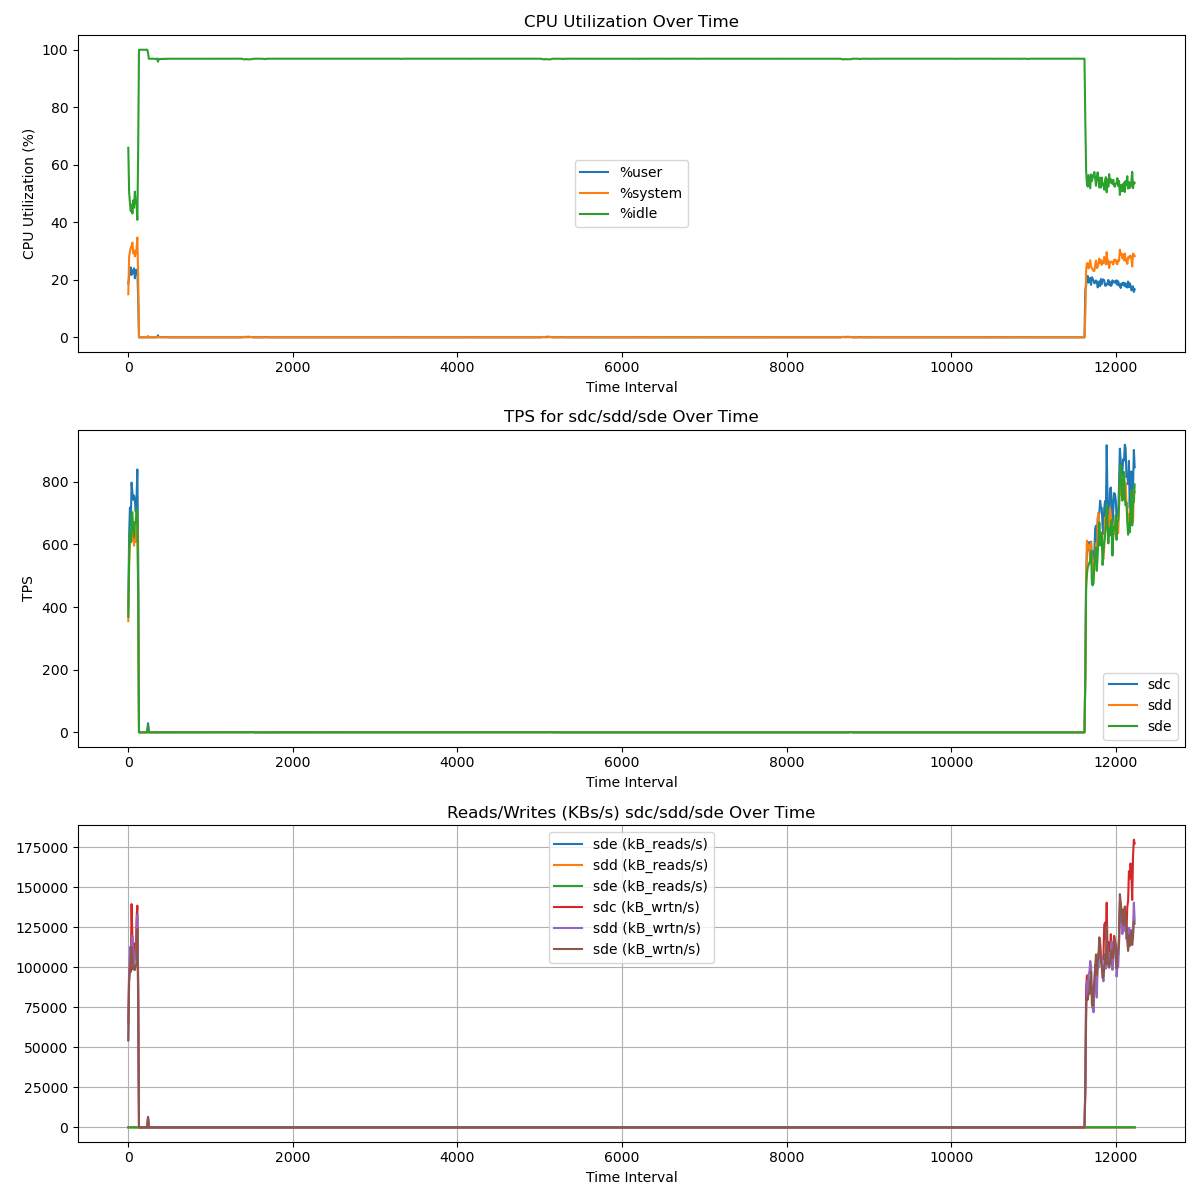
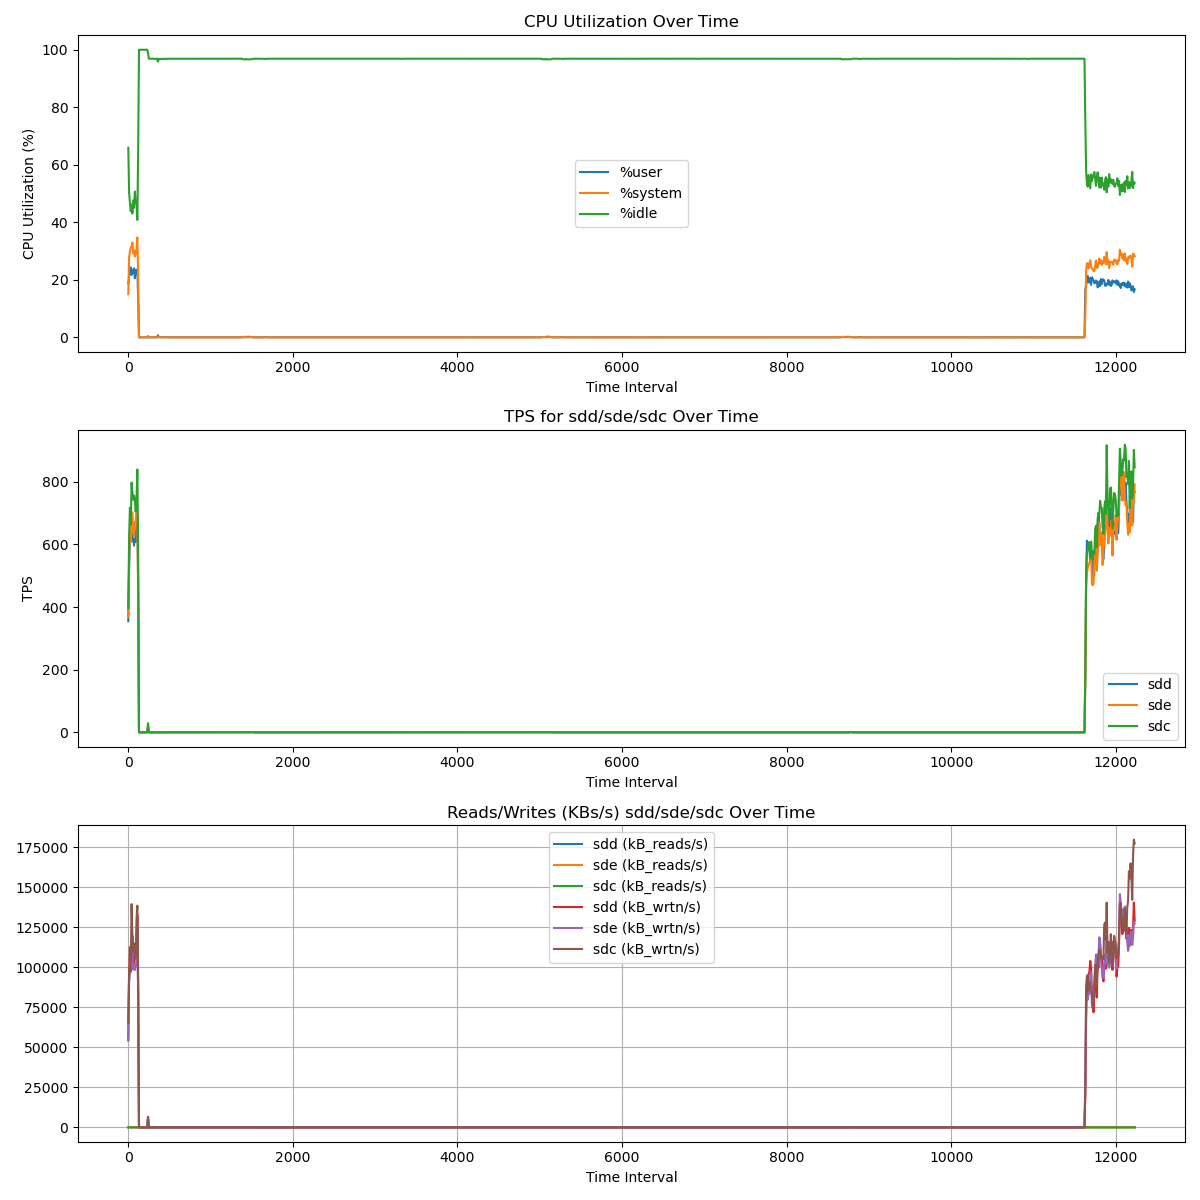
.

diff --git a/postgres-experiments-22-05-remote-client/shielded-zfs-2/process_outputs.py b/postgres-experiments-22-05-remote-client/shielded-zfs-2/process_outputs.py
@@ -45,6 +45,7 @@ def parse_file(file_path):
                     "kB_reads/s": float(parts[2]),
                     "kB_wrtn/s": float(parts[3]),
                 })
+                print("Device:" + parts[0] + ", tps:" + str(float(parts[1])) + ", kB_reads/s:" + str(float(parts[2])) + ", kB_wrtn/s:" + str(float(parts[3])))
 
     return cpu_data, device_data
 
@@ -65,18 +66,18 @@ def main():
     time_intervals_text = list(range(0, len(cpu_user)*10, 10))
     
 
-    # Extract TPS data for sdc, sdd, and sde
-    tps_sdc = [entry["tps"] for entry in device_data if entry["Device"] == "sdc"]
+    # Extract TPS data for sdd, sde, and sdc
     tps_sdd = [entry["tps"] for entry in device_data if entry["Device"] == "sdd"]
     tps_sde = [entry["tps"] for entry in device_data if entry["Device"] == "sde"]
+    tps_sdc = [entry["tps"] for entry in device_data if entry["Device"] == "sdc"]
 
-    # Extract kB_read/s  kB_wrtn/s data for sdc, sdd, and sdc
-    readspers_sdc = [entry["kB_reads/s"] for entry in device_data if entry["Device"] == "sdc"]
+    # Extract kB_read/s  kB_wrtn/s data for sdd, sde, and sdc
     readspers_sdd = [entry["kB_reads/s"] for entry in device_data if entry["Device"] == "sdd"]
     readspers_sde = [entry["kB_reads/s"] for entry in device_data if entry["Device"] == "sde"]
-    writespers_sdc = [entry["kB_wrtn/s"] for entry in device_data if entry["Device"] == "sdc"]
+    readspers_sdc = [entry["kB_reads/s"] for entry in device_data if entry["Device"] == "sdc"]
     writespers_sdd = [entry["kB_wrtn/s"] for entry in device_data if entry["Device"] == "sdd"]
     writespers_sde = [entry["kB_wrtn/s"] for entry in device_data if entry["Device"] == "sde"]
+    writespers_sdc = [entry["kB_wrtn/s"] for entry in device_data if entry["Device"] == "sdc"]
 
     # Plot CPU utilization
     plt.figure(figsize=(12, 12))
@@ -89,29 +90,32 @@ def main():
     plt.title("CPU Utilization Over Time")
     plt.legend()
 
-    # Plot TPS for sdc, sdd, and sde
+    # Plot TPS for sdd, sde, and sdc
     plt.subplot(3, 1, 2)
-    plt.plot(time_intervals_text, tps_sdc, label="sdc")
     plt.plot(time_intervals_text, tps_sdd, label="sdd")
     plt.plot(time_intervals_text, tps_sde, label="sde")
+    plt.plot(time_intervals_text, tps_sdc, label="sdc")
     plt.xlabel("Time Interval")
     plt.ylabel("TPS")
-    plt.title("TPS for sdc/sdd/sde Over Time")
+    plt.title("TPS for sdd/sde/sdc Over Time")
     plt.legend()
     #plt.xticks(time_intervals, time_intervals_text)  # Set custom x-axis labels
 
     
-    # Plot TPS for sdc, sdd, and sde
+    # Plot TPS for sdd, sde, and sdc
     plt.subplot(3, 1, 3)
-    plt.plot(time_intervals_text, readspers_sdc, label="sde (kB_reads/s)")
     plt.plot(time_intervals_text, readspers_sdd, label="sdd (kB_reads/s)")
     plt.plot(time_intervals_text, readspers_sde, label="sde (kB_reads/s)")
-    plt.plot(time_intervals_text, writespers_sdc, label="sdc (kB_wrtn/s)")
+    plt.plot(time_intervals_text, readspers_sdc, label="sdc (kB_reads/s)")
     plt.plot(time_intervals_text, writespers_sdd, label="sdd (kB_wrtn/s)")
     plt.plot(time_intervals_text, writespers_sde, label="sde (kB_wrtn/s)")
+    plt.plot(time_intervals_text, writespers_sdc, label="sdc (kB_wrtn/s)")
+    print(readspers_sdc)
+    print(readspers_sde)
+    print(readspers_sdd)
     plt.xlabel("Time Interval")
     #plt.ylabel("Reads (KB) and writes (KB)")
-    plt.title("Reads/Writes (KBs/s) sdc/sdd/sde Over Time")
+    plt.title("Reads/Writes (KBs/s) sdd/sde/sdc Over Time")
     plt.legend()
 
     # Show the plots
